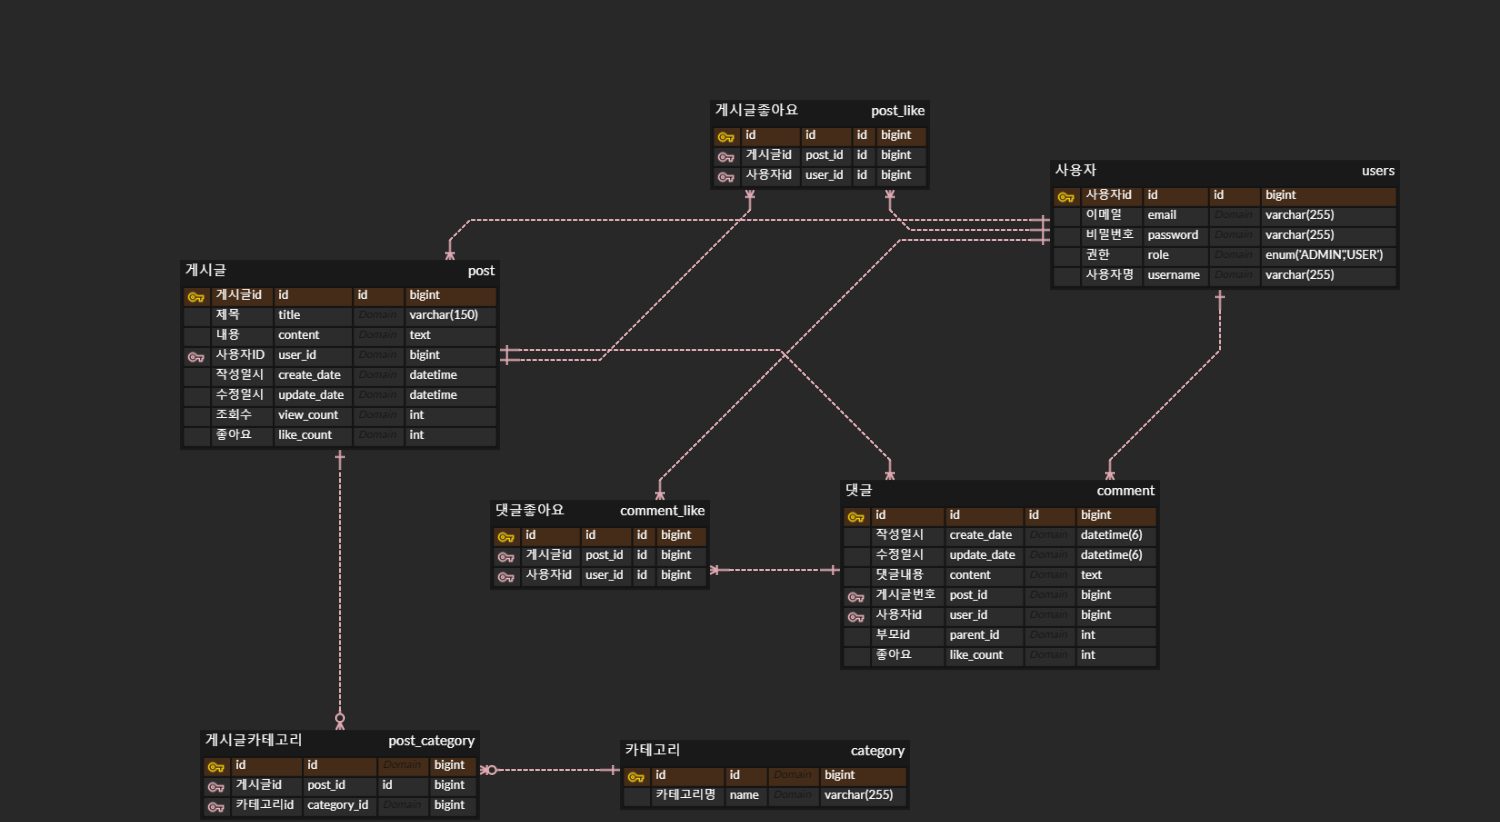
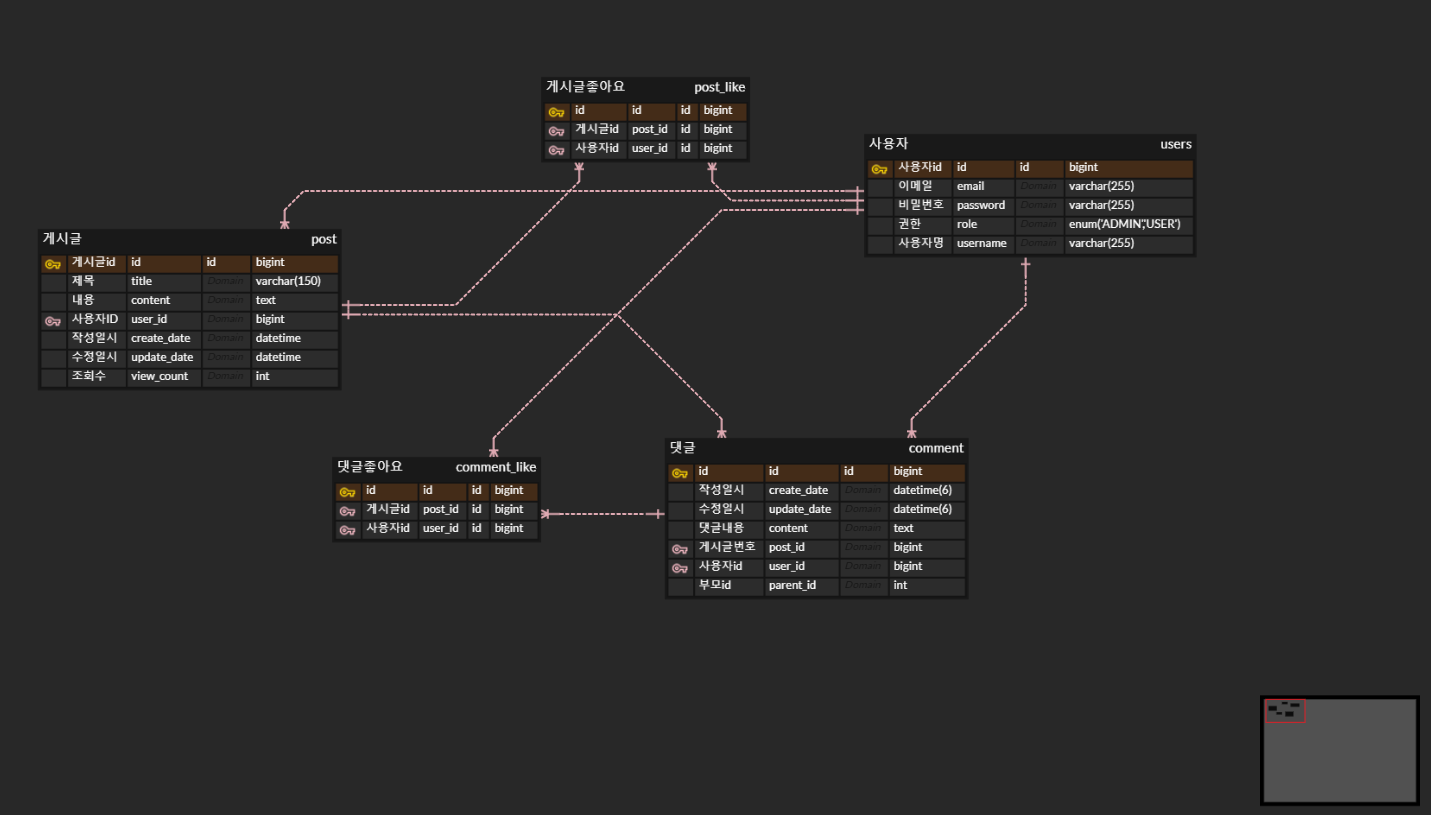
erd 수정 엔티티객체경로수정

diff --git a/ExPost/src/main/java/com/spr/expost/post/entity/Post.java b/ExPost/src/main/java/com/spr/expost/post/entity/Post.java
@@ -1,0 +1,102 @@
+package com.spr.expost.post.entity;
+
+import com.spr.expost.comment.entity.Comment;
+import com.spr.expost.common.entity.Timestamped;
+import com.spr.expost.post.dto.PostRequestDto;
+import com.spr.expost.user.entity.User;
+import jakarta.persistence.CascadeType;
+import jakarta.persistence.Column;
+import jakarta.persistence.Entity;
+import jakarta.persistence.FetchType;
+import jakarta.persistence.GeneratedValue;
+import jakarta.persistence.GenerationType;
+import jakarta.persistence.JoinColumn;
+import jakarta.persistence.ManyToOne;
+import jakarta.persistence.OneToMany;
+import jakarta.persistence.OrderBy;
+import java.util.ArrayList;
+import java.util.List;
+import lombok.AccessLevel;
+import lombok.Builder;
+import lombok.Getter;
+import lombok.NoArgsConstructor;
+import org.hibernate.annotations.DynamicInsert;
+import org.springframework.data.annotation.Id;
+
+// 게시글
+@Getter
+@Entity
+@NoArgsConstructor(access = AccessLevel.PROTECTED)
+@DynamicInsert
+public class Post extends Timestamped {
+
+    @jakarta.persistence.Id
+    @Id
+    @GeneratedValue(strategy = GenerationType.IDENTITY)
+    private Long id;
+
+/*
+    @Column(length = 10, nullable = false)
+    private String author;
+*/
+
+    @Column(length = 100, nullable = false)
+    private String title;
+
+    @Column(columnDefinition = "TEXT", nullable = false)
+    private String content;
+
+    /*
+    // 사용자 인증으로 대체
+    @Column(length = 255, nullable = false)
+    private String postPassword;
+    */
+
+    @OneToMany(mappedBy = "post", fetch = FetchType.LAZY, cascade = {CascadeType.REMOVE, CascadeType.PERSIST})
+    @OrderBy("id asc") // 댓글 정렬
+    private List<Comment> comments;
+
+    // 관리자 사용자 접근권한 때문에 작성자는 업데이트 하지 않음
+    @ManyToOne
+    @JoinColumn(name = "user_id", updatable=false)
+    private User user; // 작성자
+/*
+    컬럼 별도 생성 (다량의 데이터 조회 시 )
+    @ColumnDefault("0")
+    @Column(name = "like_count", nullable = false)
+    private Integer likeCount;
+*/
+
+    @Column(name = "view_count")
+    private Integer viewCount;
+
+
+    @OneToMany(mappedBy = "post", cascade = CascadeType.ALL, orphanRemoval = true)
+    private List<PostLike> postLikes = new ArrayList<>();
+
+    @OneToMany(mappedBy = "post", cascade = CascadeType.ALL, orphanRemoval = true)
+    private List<PostCategory> postCategoryList = new ArrayList<>();
+
+
+    @Builder
+    public Post(String title, String content, User user){
+        this.title = title;
+        this.content = content;
+        this.user = user;
+    }
+
+    public void update(PostRequestDto requestDto) {
+        this.title = requestDto.getTitle();
+        this.content = requestDto.getContent();
+    }
+
+
+
+    public void setId(Long id) {
+        this.id = id;
+    }
+
+    public Long getId() {
+        return id;
+    }
+}

diff --git a/ExPost/src/main/java/com/spr/expost/user/entity/User.java b/ExPost/src/main/java/com/spr/expost/user/entity/User.java
@@ -1,0 +1,63 @@
+package com.spr.expost.user.entity;
+
+
+import com.spr.expost.comment.entity.Comment;
+import com.spr.expost.comment.entity.CommentLike;
+import com.spr.expost.post.entity.Post;
+import com.spr.expost.post.entity.PostLike;
+import jakarta.persistence.CascadeType;
+import jakarta.persistence.Column;
+import jakarta.persistence.Entity;
+import jakarta.persistence.EnumType;
+import jakarta.persistence.Enumerated;
+import jakarta.persistence.GeneratedValue;
+import jakarta.persistence.GenerationType;
+import jakarta.persistence.Id;
+import jakarta.persistence.OneToMany;
+import jakarta.persistence.Table;
+import java.util.ArrayList;
+import java.util.List;
+import lombok.Getter;
+import lombok.NoArgsConstructor;
+import lombok.Setter;
+
+@Entity
+@Getter
+@Setter
+@NoArgsConstructor
+@Table(name = "users")
+public class User {
+    @Id
+    @GeneratedValue(strategy = GenerationType.IDENTITY)
+    private Long userId;
+
+    @Column(nullable = false, unique = true)
+    private String username;
+
+    @Column(nullable = false)
+    private String password;
+
+    @Column(nullable = false, unique = true)
+    private String email;
+
+    @Column(nullable = false)
+    @Enumerated(value = EnumType.STRING)
+    private UserRoleEnum role;
+
+    // 회원 탈퇴 시 모두 삭제
+    @OneToMany(mappedBy = "user", cascade = CascadeType.ALL)
+    private List<Post> postsList = new ArrayList<>();
+    @OneToMany(mappedBy = "user", cascade = CascadeType.ALL)
+    private List<Comment> commentList = new ArrayList<>();
+    @OneToMany(mappedBy = "user", cascade = CascadeType.ALL)
+    private List<PostLike> postLikeList = new ArrayList<>();
+    @OneToMany(mappedBy = "user", cascade = CascadeType.ALL)
+    private List<CommentLike> commentLikeList = new ArrayList<>();
+
+    public User(String username, String password, String email, UserRoleEnum role) {
+        this.username = username;
+        this.password = password;
+        this.email = email;
+        this.role = role;
+    }
+}

diff --git a/ExPost/src/main/java/com/spr/expost/comment/entity/CommentLike.java b/ExPost/src/main/java/com/spr/expost/comment/entity/CommentLike.java
@@ -1,0 +1,43 @@
+package com.spr.expost.comment.entity;
+
+import com.spr.expost.user.entity.User;
+import jakarta.persistence.Entity;
+import jakarta.persistence.FetchType;
+import jakarta.persistence.GeneratedValue;
+import jakarta.persistence.GenerationType;
+import jakarta.persistence.Id;
+import jakarta.persistence.JoinColumn;
+import jakarta.persistence.ManyToOne;
+import jakarta.persistence.Table;
+import lombok.AccessLevel;
+import lombok.Builder;
+import lombok.Getter;
+import lombok.NoArgsConstructor;
+
+@Getter
+@NoArgsConstructor(access = AccessLevel.PROTECTED)
+@Entity
+@Table(name = "comment_like")
+public class CommentLike {
+
+    @Id
+    @GeneratedValue(strategy = GenerationType.IDENTITY)
+    private Long id;
+
+    @ManyToOne(fetch = FetchType.LAZY)
+    @JoinColumn(name = "comment_id")
+    private Comment comment;
+
+    // 관리자 사용자 접근권한 때문에 작성자는 업데이트 하지 않음
+    @ManyToOne(fetch = FetchType.LAZY)
+    @JoinColumn(name = "user_id", updatable=false)
+    private User user; // 작성자
+
+
+    @Builder
+    public CommentLike(User user, Comment comment) {
+        this.user = user;
+        this.comment = comment;
+    }
+}
+

diff --git a/ExPost/src/main/java/com/spr/expost/post/entity/PostLike.java b/ExPost/src/main/java/com/spr/expost/post/entity/PostLike.java
@@ -1,0 +1,43 @@
+package com.spr.expost.post.entity;
+
+import com.spr.expost.user.entity.User;
+import jakarta.persistence.Entity;
+import jakarta.persistence.FetchType;
+import jakarta.persistence.GeneratedValue;
+import jakarta.persistence.GenerationType;
+import jakarta.persistence.Id;
+import jakarta.persistence.JoinColumn;
+import jakarta.persistence.ManyToOne;
+import jakarta.persistence.Table;
+import lombok.AccessLevel;
+import lombok.Builder;
+import lombok.Getter;
+import lombok.NoArgsConstructor;
+
+@Getter
+@NoArgsConstructor(access = AccessLevel.PROTECTED)
+@Entity
+@Table(name = "post_like")
+public class PostLike {
+
+    @Id
+    @GeneratedValue(strategy = GenerationType.IDENTITY)
+    private Long id;
+
+    @ManyToOne(fetch = FetchType.LAZY)
+    @JoinColumn(name = "post_id")
+    private Post post;
+
+    // 관리자 사용자 접근권한 때문에 작성자는 업데이트 하지 않음
+    @ManyToOne(fetch = FetchType.LAZY)
+    @JoinColumn(name = "user_id", updatable=false)
+    private User user; // 작성자
+
+
+    @Builder
+    public PostLike(User user, Post post) {
+        this.user = user;
+        this.post = post;
+    }
+}
+

diff --git a/ExPost/src/main/java/com/spr/expost/post/entity/PostCategory.java b/ExPost/src/main/java/com/spr/expost/post/entity/PostCategory.java
@@ -1,0 +1,38 @@
+package com.spr.expost.post.entity;
+
+import com.spr.expost.category.entity.Category;
+import jakarta.persistence.CascadeType;
+import jakarta.persistence.Entity;
+import jakarta.persistence.FetchType;
+import jakarta.persistence.GeneratedValue;
+import jakarta.persistence.GenerationType;
+import jakarta.persistence.Id;
+import jakarta.persistence.ManyToOne;
+import lombok.Getter;
+import lombok.NoArgsConstructor;
+
+@Entity
+@Getter
+@NoArgsConstructor
+public class PostCategory {
+    @Id
+    @GeneratedValue(strategy = GenerationType.IDENTITY)
+    private Long id;
+
+    @ManyToOne(fetch = FetchType.LAZY, cascade = CascadeType.PERSIST)
+    private Post post;
+
+    @ManyToOne(fetch = FetchType.LAZY, cascade = CascadeType.PERSIST)
+    private Category category;
+
+    public PostCategory(Post post, Category category){
+        this.post = post;
+        this.category = category;
+    }
+
+    public PostCategory(Post post, String name){
+        this.post = post;
+        this.category = new Category(name);
+    }
+
+}

diff --git a/ExPost/src/main/java/com/spr/expost/category/entity/Category.java b/ExPost/src/main/java/com/spr/expost/category/entity/Category.java
@@ -1,0 +1,35 @@
+package com.spr.expost.category.entity;
+
+import com.spr.expost.post.entity.PostCategory;
+import jakarta.persistence.Entity;
+import jakarta.persistence.GeneratedValue;
+import jakarta.persistence.GenerationType;
+import jakarta.persistence.Id;
+import jakarta.persistence.OneToMany;
+import java.util.ArrayList;
+import java.util.List;
+import lombok.Getter;
+import lombok.NoArgsConstructor;
+
+@Entity
+@Getter
+@NoArgsConstructor
+public class Category {
+    @Id
+    @GeneratedValue(strategy = GenerationType.IDENTITY)
+    private Long id;
+
+    private String name;
+
+    @OneToMany(mappedBy = "category")
+    private List<PostCategory> postCategoryList = new ArrayList<>();
+
+    public Category(String name){
+        this.name = name;
+    }
+
+    public Category(Long id, String name) {
+        this.id = id;
+        this.name =name;
+    }
+}

diff --git a/ExPost/src/main/java/com/spr/expost/common/entity/Timestamped.java b/ExPost/src/main/java/com/spr/expost/common/entity/Timestamped.java
@@ -1,0 +1,26 @@
+package com.spr.expost.common.entity;
+
+import jakarta.persistence.*;
+import lombok.Getter;
+import org.springframework.data.annotation.CreatedDate;
+import org.springframework.data.annotation.LastModifiedDate;
+import org.springframework.data.jpa.domain.support.AuditingEntityListener;
+
+import java.time.LocalDateTime;
+
+// db 저장 시 날짜 자동 반영
+@Getter
+@MappedSuperclass
+@EntityListeners(AuditingEntityListener.class)
+public abstract class Timestamped {
+
+    @CreatedDate
+    @Column(updatable = false)
+    @Temporal(TemporalType.TIMESTAMP)
+    private LocalDateTime createDate;
+
+    @LastModifiedDate
+    @Column
+    @Temporal(TemporalType.TIMESTAMP)
+    private LocalDateTime updateDate;
+}

diff --git a/ExPost/src/main/java/com/spr/expost/user/entity/UserRoleEnum.java b/ExPost/src/main/java/com/spr/expost/user/entity/UserRoleEnum.java
@@ -1,0 +1,21 @@
+package com.spr.expost.user.entity;
+
+public enum UserRoleEnum {
+    USER(Authority.USER),  // 사용자 권한
+    ADMIN(Authority.ADMIN);  // 관리자 권한
+
+    private final String authority;
+
+    UserRoleEnum(String authority) {
+        this.authority = authority;
+    }
+
+    public String getAuthority() {
+        return this.authority;
+    }
+
+    public static class Authority {
+        public static final String USER = "ROLE_USER";
+        public static final String ADMIN = "ROLE_ADMIN";
+    }
+}
